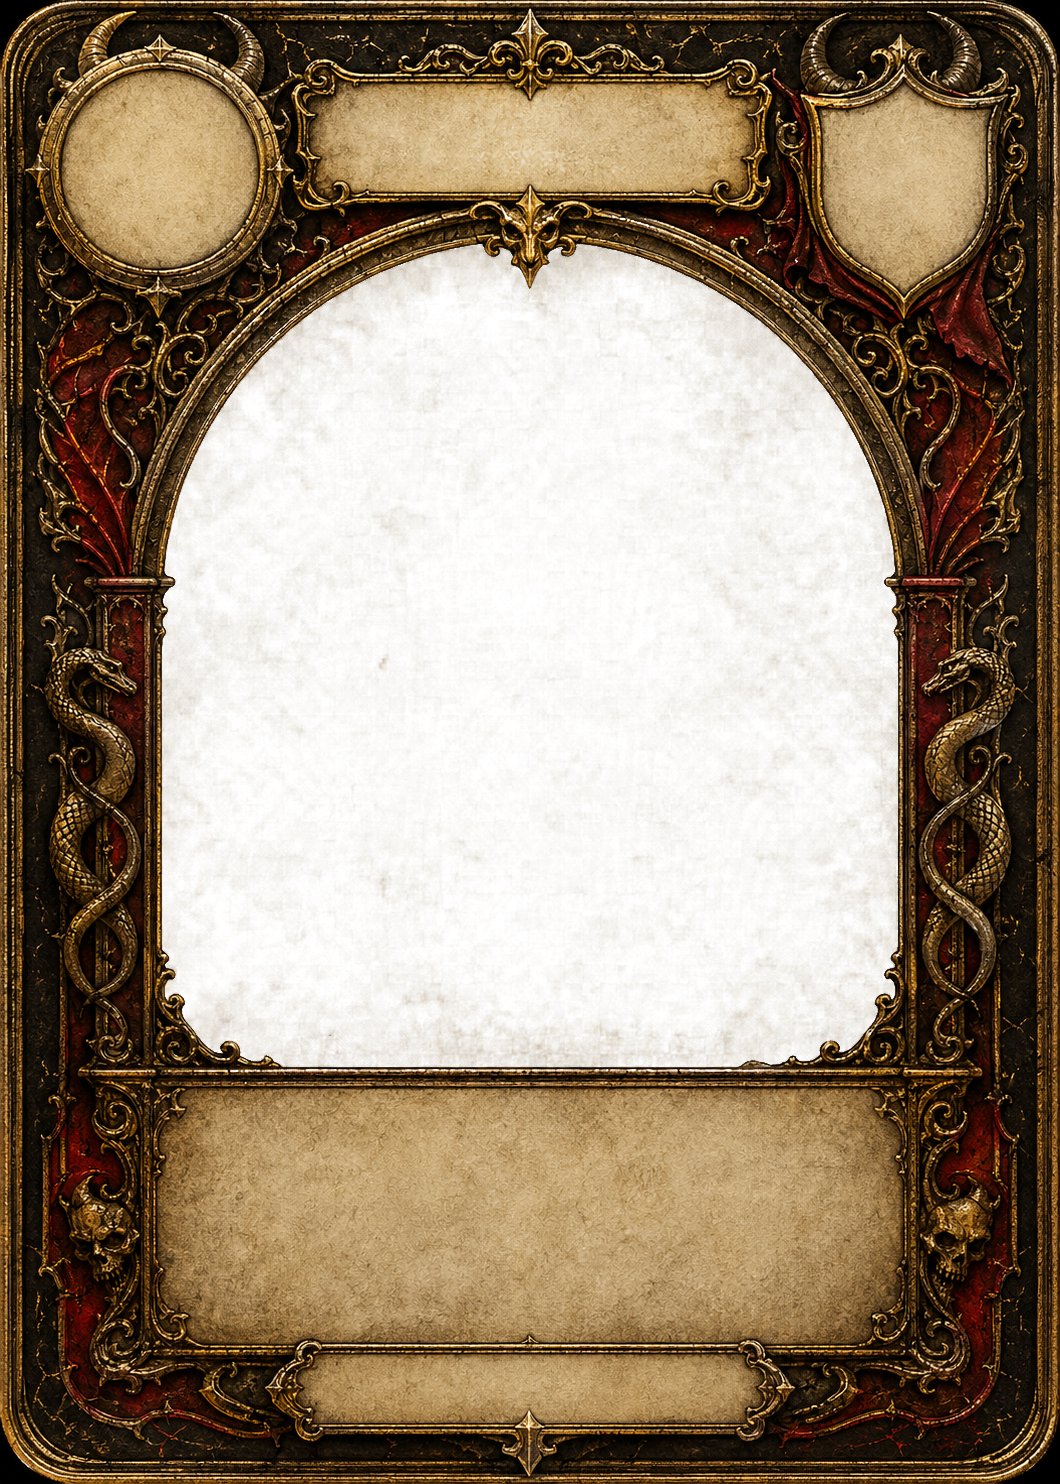
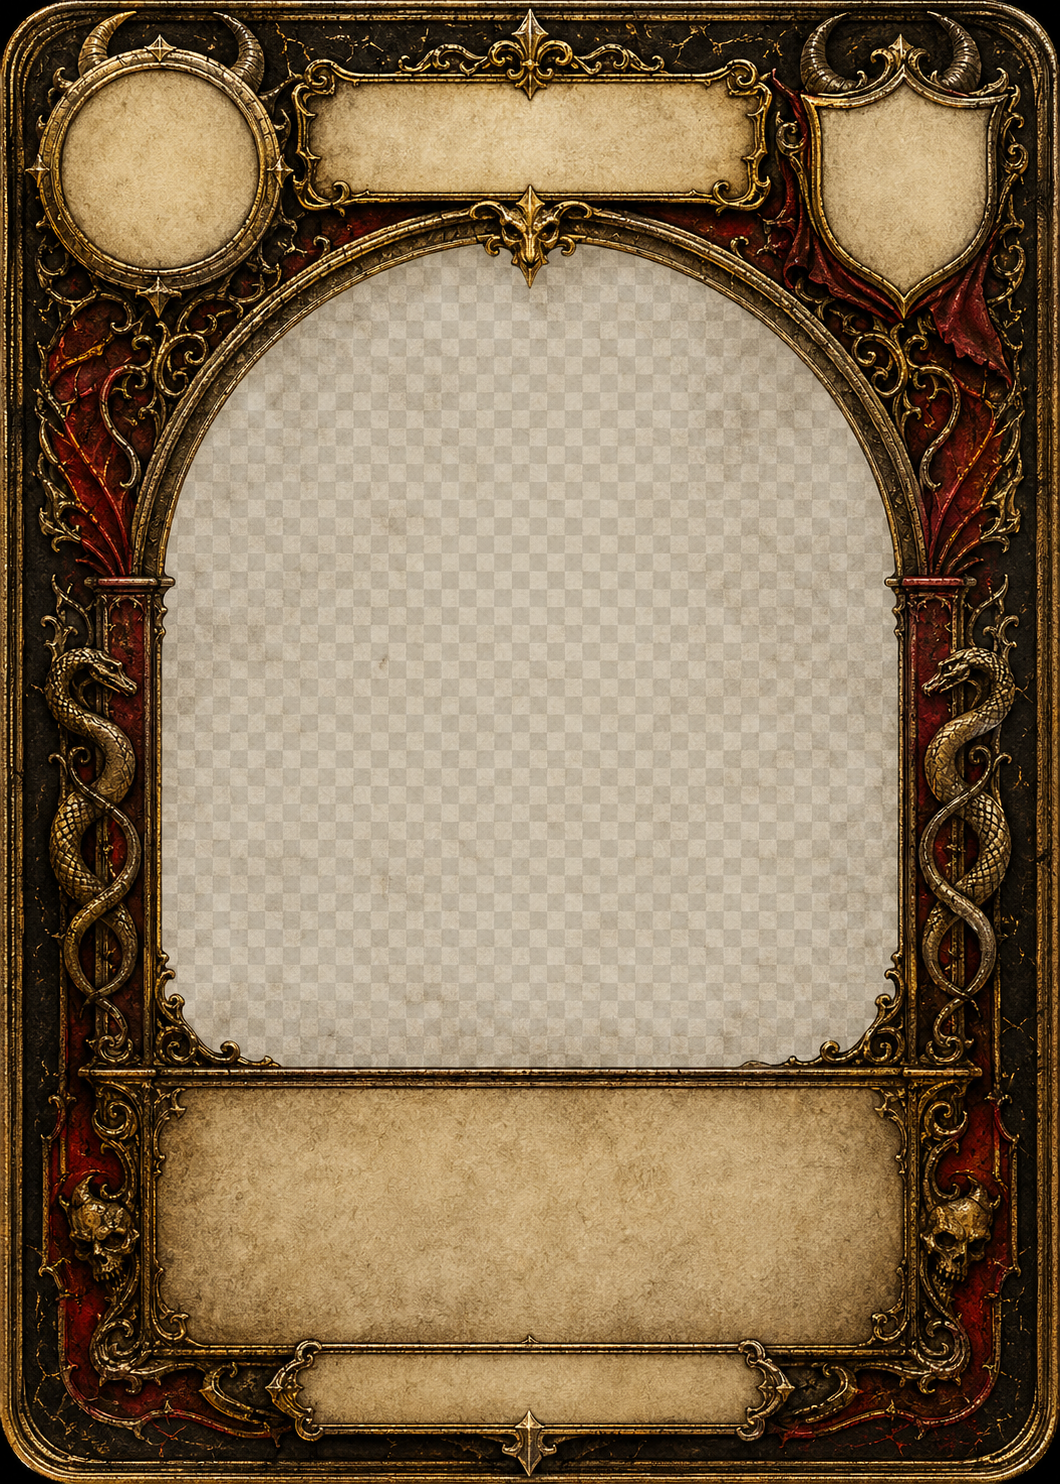
Fix transparence : fermeture morphologique des ornements dans l'arche
Le template Infamie a un crâne + couronne d'épines au sommet de l'arche ;

le parchemin entre les ornements était transparentisé indésirablement.

Désormais on dilate la détection d'ornements (25 itérations ≈ 25 px) avant

d'appliquer la transparence : seules les zones franchement vides du bandeau

parchemin de l'arche deviennent transparentes.

https://claude.ai/code/session_011baaC7zEExbd5eSjuzVu4k

diff --git a/tools/extract_arch_alpha.py b/tools/extract_arch_alpha.py
@@ -2,13 +2,7 @@
 """
 Convert ChatGPT-generated card templates into RGBA with the central
 arch made transparent (with the noise/grain preserved as
-semi-transparency).
-
-Why this is needed: ChatGPT outputs the arch as a *painted* checker
-pattern in 8-bit RGB (no alpha channel). This script detects beige
-parchment-like pixels inside the arch shape and converts their
-luminance into alpha, keeping the warm ornaments (gold, red, purple)
-fully opaque.
+semi-transparency, and ornaments inside the arch staying opaque).
 
 Usage:
     python3 tools/extract_arch_alpha.py <input.png> <output.png>
@@ -17,12 +11,12 @@ Usage:
 import sys
 from PIL import Image
 import numpy as np
+from scipy.ndimage import binary_dilation
 
-# Arch shape in fractional coordinates: half-ellipse on top + rectangle
-# extending downward. Tweak per-template if the arch layout shifts.
 ARCH_CX, ARCH_CY = 0.50, 0.32
 ARCH_RX, ARCH_RY = 0.35, 0.22
 ARCH_BOTTOM = 0.74
+DILATE_ITER = 25
 
 
 def process(in_path: str, out_path: str) -> None:
@@ -35,14 +29,14 @@ def process(in_path: str, out_path: str) -> None:
     minc = np.minimum(np.minimum(R, G), B)
     desat = maxc - minc
     lum = (R + G + B) / 3.0
-
-    # ornament_strength ∈ [0,1] — how "ornament-like" the pixel is.
     s_sat = np.clip((desat - 20) / 50.0, 0, 1)
     s_dark = np.clip((140 - lum) / 60.0, 0, 1)
     s_gold = np.clip((100 - B) / 40.0, 0, 1)
     ornament_strength = np.maximum(np.maximum(s_sat, s_dark), s_gold)
 
-    # Arch mask
+    is_ornament = ornament_strength > 0.2
+    ornament_blob = binary_dilation(is_ornament, iterations=DILATE_ITER)
+
     yy, xx = np.indices((h, w))
     fx = xx / float(w)
     fy = yy / float(h)
@@ -51,7 +45,9 @@ def process(in_path: str, out_path: str) -> None:
     in_bot = (fy > ARCH_CY) & (fy <= ARCH_BOTTOM) & (np.abs(fx - ARCH_CX) <= ARCH_RX)
     in_arch = in_top | in_bot
 
-    alpha = np.where(in_arch, np.clip((ornament_strength - 0.2) * 320, 0, 255), 255).astype(np.uint8)
+    transparent_zone = in_arch & ~ornament_blob
+    alpha_in = np.clip((ornament_strength - 0.2) * 320, 0, 255)
+    alpha = np.where(transparent_zone, alpha_in, 255).astype(np.uint8)
     arr[:, :, 3] = alpha
     Image.fromarray(np.clip(arr, 0, 255).astype(np.uint8), mode="RGBA").save(
         out_path, optimize=True
